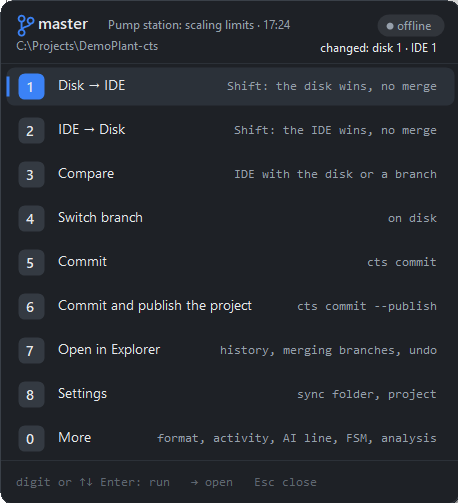
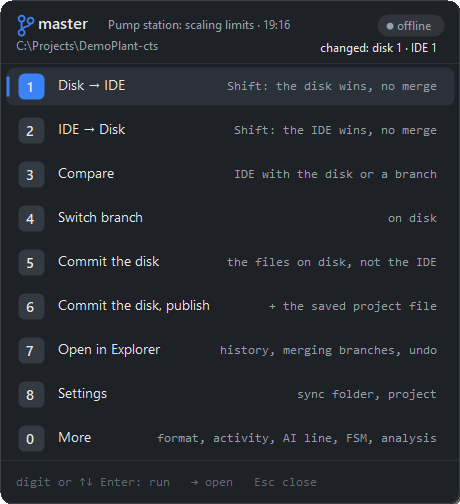
README: the quick window as it is now and the conflict window in place of the GitHub Desktop compare shot

diff --git a/readMe.md b/readMe.md
@@ -82,10 +82,13 @@ the important path is:
    width="420"></p>
 
 `cts compare` shows what differs between disk, the IDE and the last sync before
-either; `3` in the quick window opens the same difference in your git program:
+either; `3` in the quick window opens the same difference in your diff program.
+An object both sides changed is merged; when the edits overlap, `1` and `2`
+open the conflict window first: each such object side by side, the lines that
+differ marked, and for each **Disk wins**, **IDE wins** or **Merge by hand...**:
 
-<p><img src="img/compare-github-desktop.png"
-   alt="Compare: the IDE's changes to F_Scale.st against the disk, shown in GitHub Desktop"
+<p><img src="img/conflict-window.png"
+   alt="The conflict window: FB_Motor changed in the IDE and on disk in the same line, side by side"
    width="100%"></p>
 
 The quick window's Settings page covers the sync folder, the program

diff --git a/docs/scripts.md b/docs/scripts.md
@@ -124,6 +124,8 @@ changes until a command is chosen.
 <p><img src="../img/quick-window.png" alt="The quick window" width="380">
    <img src="../img/quick-more.png" alt="The quick window's More page" width="380"></p>
 
+<p><img src="../img/conflict-window.png" alt="The conflict window that 1 and 2 open when both sides changed the same lines" width="100%"></p>
+
 A digit, a click or the arrows and Enter run an item; a row that asks opens a
 line in the footer (Enter runs it, Esc cancels). While a command runs the
 window shows a spinner with the seconds and the stage reached, then the
